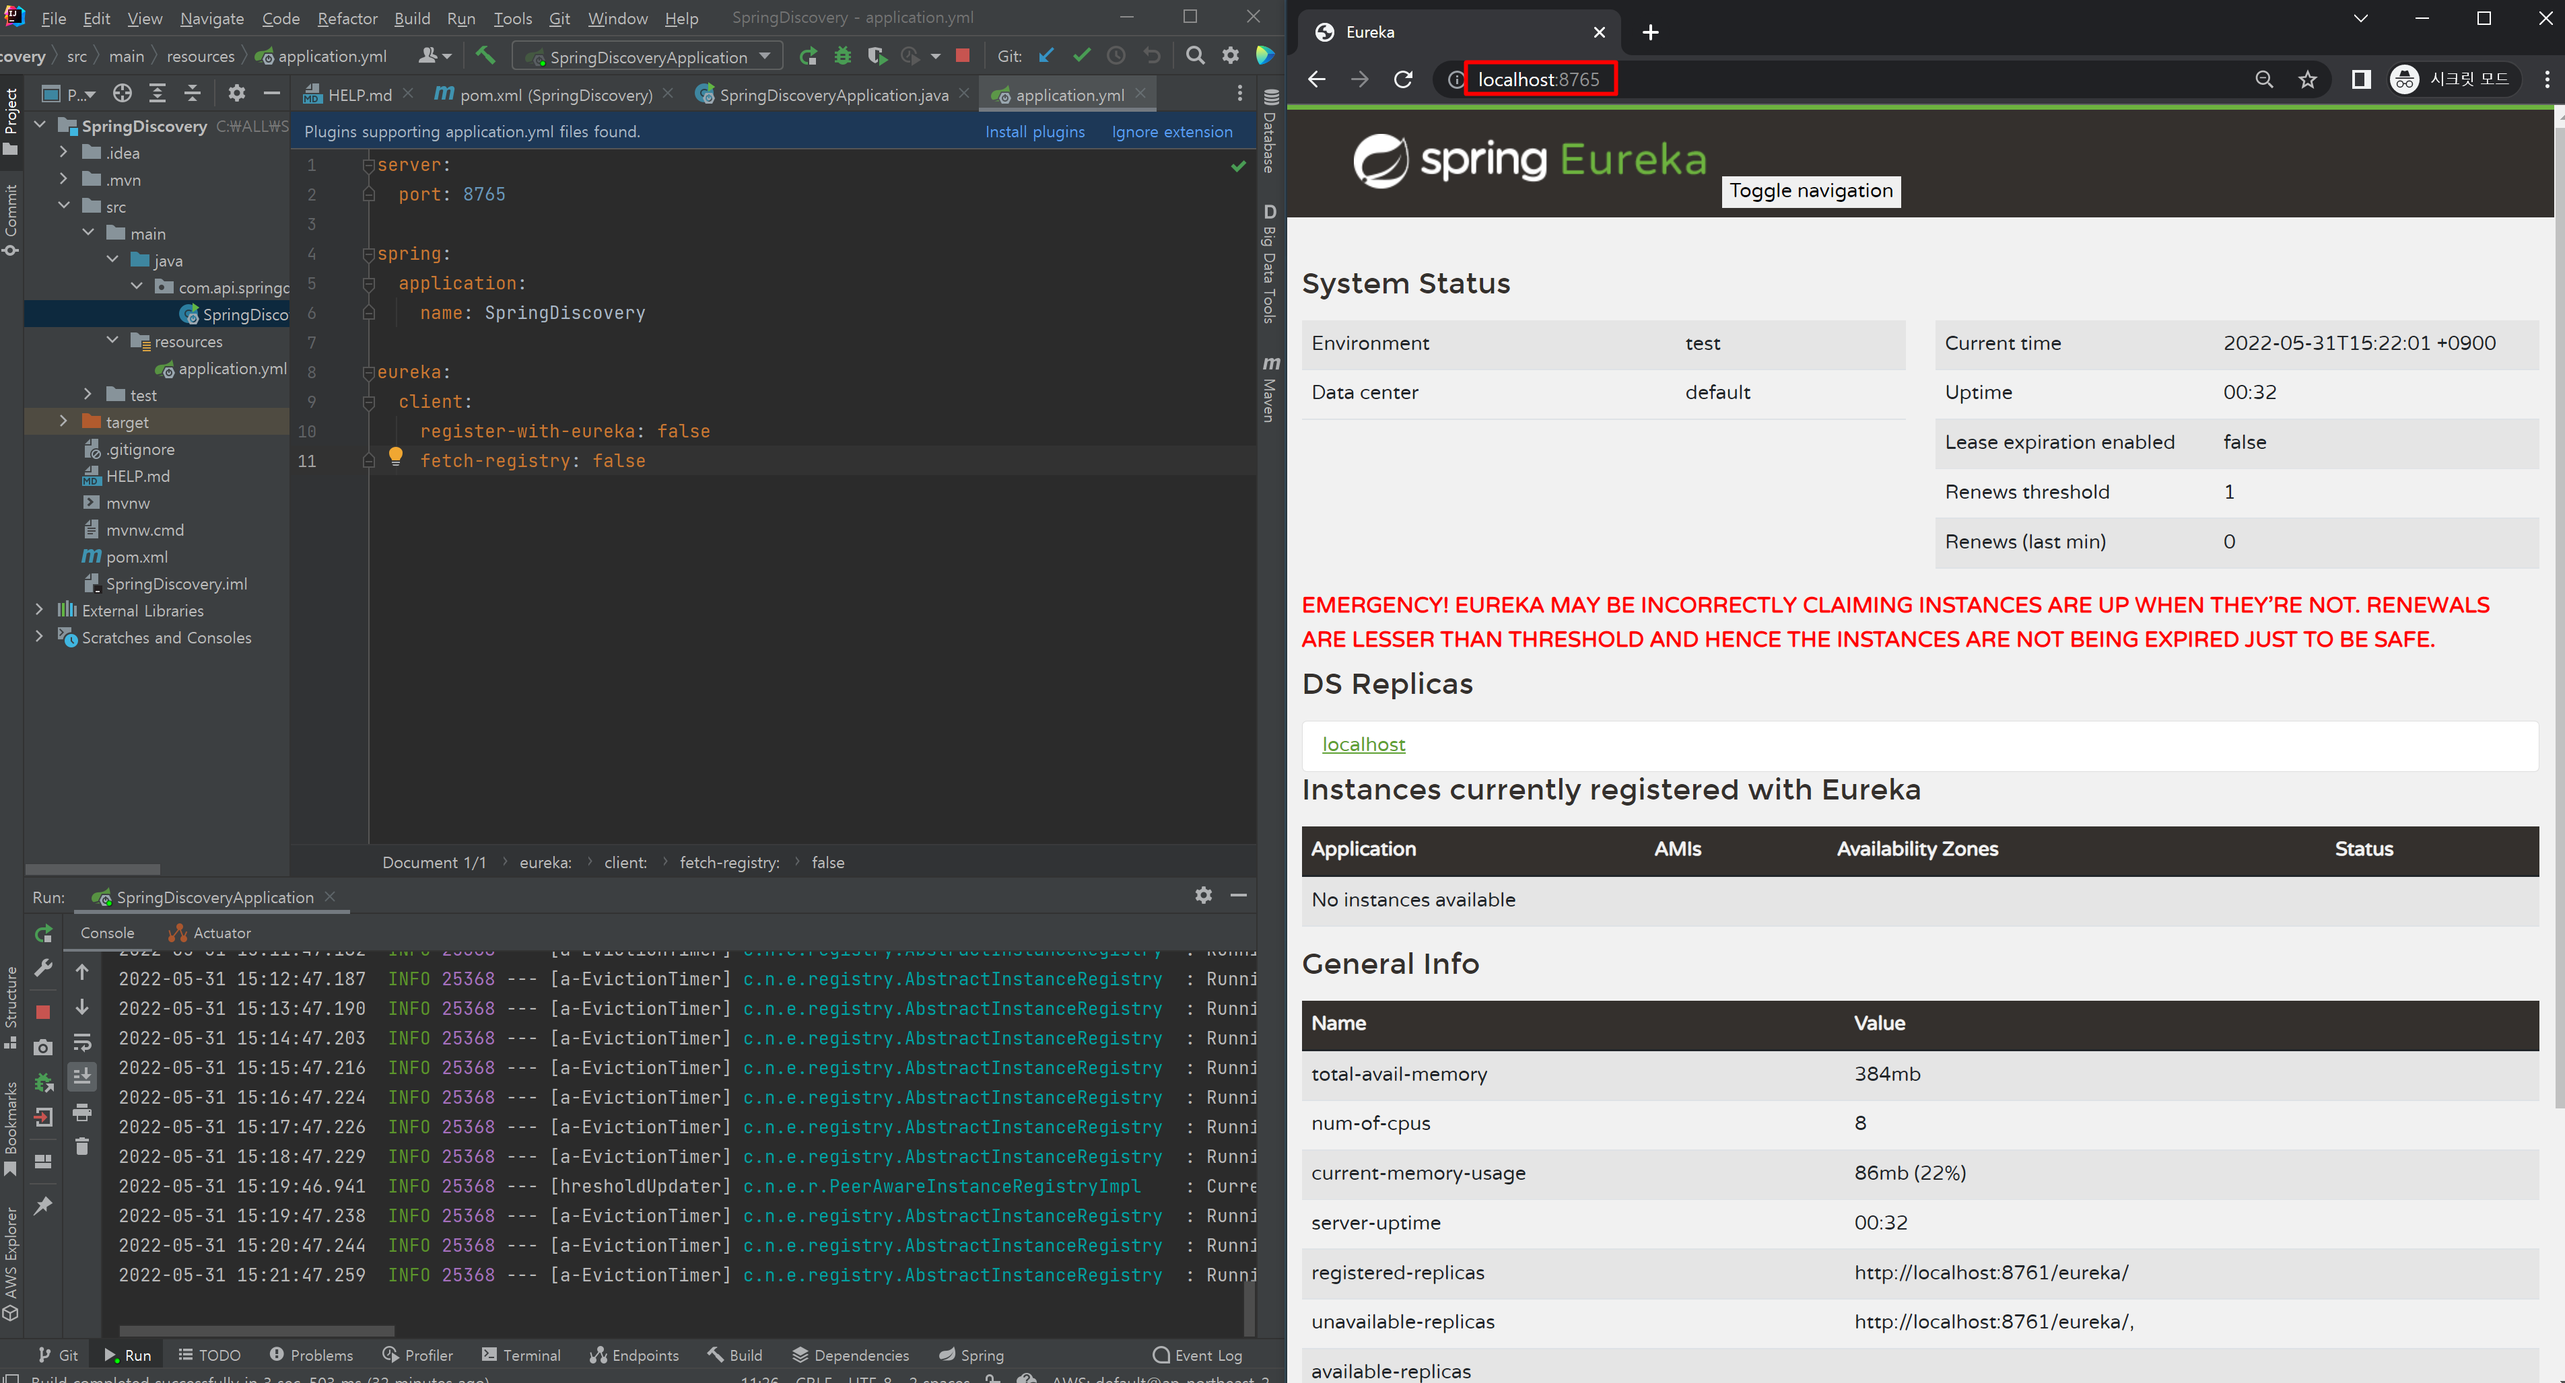
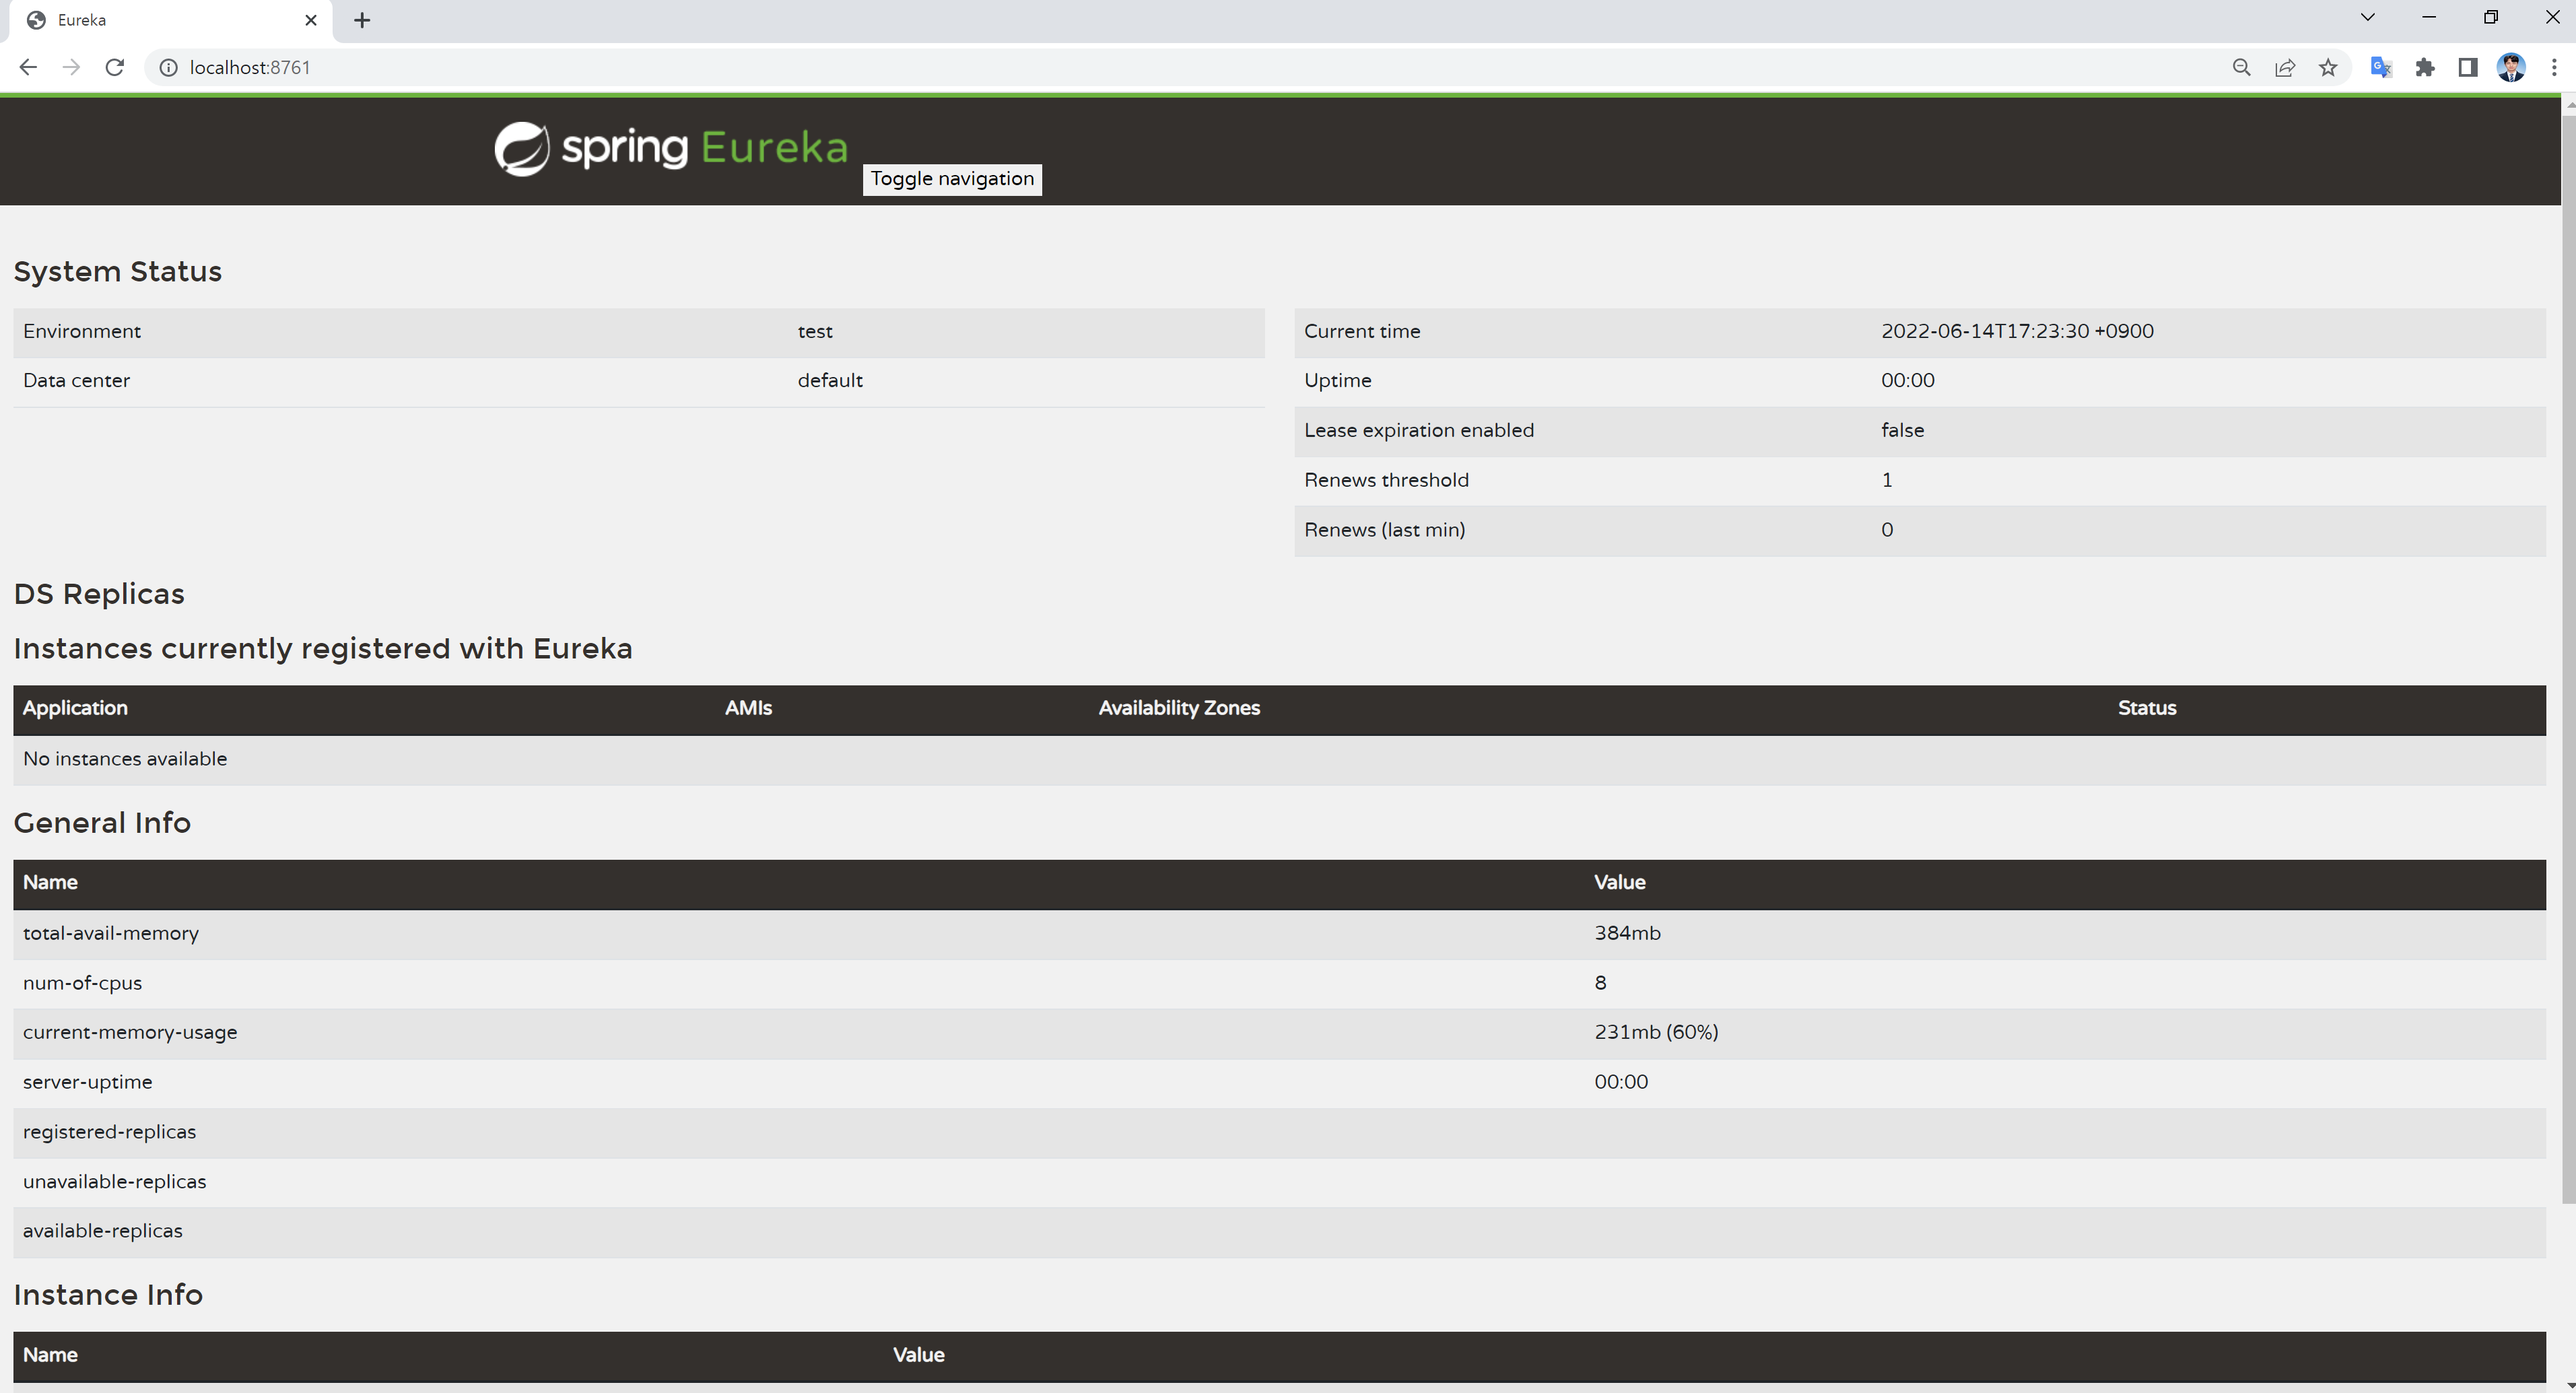
[SpringCloudMSA] feature: Eureka의 Service Discovery에 대한 기능 실습 및 정리

diff --git a/SpringCloudMSA/Eureka를 사용한 간단한 Service Discovery 구현.md b/SpringCloudMSA/Eureka를 사용한 간단한 Service Discovery 구현.md
@@ -1,13 +1,20 @@
+### Eureka
+
+* Neflix에서 제공한 MSA를 위한 클라우드 오픈 소스
+
+##### Eureka 탄생 배경
+
+* MSA에서는 Service의 IP와 Port가 일정하지 않고 지속적을 변화한다. 따라서, Client에 Service의 정보를 수동으로 입력하는 것은 한계가 있어 Service Discovery의 역할이 필요해짐.
+
 ##### Service Discovery 
 
-* MSA와 같은 분산 환경은 서비스 간의 원격 호출로 구성이 된다. 원격 서비스 호출은 IP 주소와 포트를 이용하는 방식이 되는다. 
+* MSA와 같은 분산 환경은 서비스 간의 원격 호출로 구성이 된다. 원격 서비스 호출은 IP 주소와 포트를 이용하는 방식. 
 * 클라우드 환경이 되면서 서비스가 오토 스케일링 등에 의해서 동적으로 생성되거나 컨테이너 기반의 배포로 인해서, 서비스의 IP가 동적으로 변경되는 일이 잦아졌다. 
-* 그래서 서비스 클라이언트가 서비스를 호출할때 서비스의 위치 (즉 IP주소와 포트)를 알아낼 수 있는 기능이 필요한데, 이것을 바로 서비스 디스커버리 (Service discovery)라고 한다.
+* 그래서 서비스 클라이언트가 서비스를 호출할 때 서비스의 위치 (즉 IP주소와 포트)를 알아낼 수 있는 기능이 필요한데, 이것을 바로 Service discovery 라고 한다.
 
 ---
 
-* 참고 Docs 
-  https://cloud.spring.io/spring-cloud-netflix/multi/multi_spring-cloud-eureka-server.html
+### Service Discovery: Eureka Server
 
 ##### SpringDiscovery 프로젝트 생성
 
@@ -23,7 +30,7 @@
   import org.springframework.cloud.netflix.eureka.server.EnableEurekaServer;
   
   @SpringBootApplication
-  @EnableEurekaServer // 어노테이션 추가
+  @EnableEurekaServer // 유레카 서버 활성화
   public class SpringDiscoveryApplication {
   
       public static void main(String[] args) {
@@ -33,7 +40,7 @@
   }
   ```
 
-* application.yml
+* `application.yml`
 
   ```yaml
   server:
@@ -44,20 +51,43 @@
       name: SpringDiscovery
   
   eureka:
+    instance:
+      hostname: localhost
     client:
       register-with-eureka: false
       fetch-registry: false
+      serviceUrl:
+        defaultZone: http://${eureka.instance.hostname}:${server.port}/eureka/
   ```
 
-* Eureka 접속
+  * `spring.application.name`: MSA에서 이 서비스를 식별하는 id
+
+  * `eureka.client.register-with-eureka`: 기본적으로 설정해주지 않는 경우 Eureka Server 자체를 registry에 등록하려 하기 때문에 false로 설정
+
+  * `eureka.client.fetch-registry`: registry에 있는 정보를 가져올지 여부, Eureka Server는 사용하지 않으므로 false로 설정
+
+* `localhost:8761` 
+
+  * 애플리케이션 실행 후 해당 URL로 대시보드 확인
 
   ![3](img/3.png)
 
+* `localhost:8761/eureka/apps`
+
+  * Eureka 서버에 등록된 MSA 목록을 조회할 수 있다.
+
+  ![8](img/8.png)
+
 ---
+
+### Service Discovery: Eureka Client
+
+* Eureka Client는 Server와 통신하여 자신을 등록하고 서비스 정보를 보낸다.
+* 서버로부터 데이터를 가져와 캐싱하고 주기적으로 변경 사항을 확인한다.
 
 ##### SpringDiscoveryService 프로젝트 생성
 
-* 의존성 추가하여 프로젝트 생성
+* Spring Cloud Discovery - Eureka Discovery Client 의존성 추가
 
   ![2](img/2.png)
 
@@ -69,7 +99,7 @@
   import org.springframework.cloud.client.discovery.EnableDiscoveryClient;
   
   @SpringBootApplication
-  @EnableDiscoveryClient
+  @EnableDiscoveryClient // netflix의 @EnableEurekaClient 또한 사용 가능하다.
   public class SpringDiscoveryServiceApplication {
   
       public static void main(String[] args) {
@@ -94,8 +124,10 @@
       register-with-eureka: true
       fetch-registry: true
       service-url:
-        defaultZone: http://127.0.0.1.:8761/eureka
+        defaultZone: http://127.0.0.1:8761/eureka
   ```
+
+  * `eureka.client.service-url.defaultZone`: 클라이언트와 통신할 디스커버리 서버 주소를 설정한다.
 
 * Eureka 서비스 목록 확인
 
@@ -103,10 +135,8 @@
   // 아래와 같은 로그가 찍힘
   INFO 20780 --- [nio-8761-exec-8] c.n.e.registry.AbstractInstanceRegistry  : Registered instance SPRINGDISCOVERYSERVICE/yeongyeon-kim.hwk.net:SpringDiscoveryService:9001 with status UP (replication=false)
   INFO 20780 --- [nio-8761-exec-6] c.n.e.registry.AbstractInstanceRegistry  : Registered instance SPRINGDISCOVERYSERVICE/yeongyeon-kim.hwk.net:SpringDiscoveryService:9001 with status UP (replication=true)
-  INFO 20780 --- [nio-8761-exec-3] c.n.e.registry.AbstractInstanceRegistry  : Registered instance SPRINGDISCOVERYSERVICE/yeongyeon-kim.hwk.net:SpringDiscoveryService:9002 with status UP (replication=false)
-  INFO 20780 --- [nio-8761-exec-4] c.n.e.registry.AbstractInstanceRegistry  : Registered instance SPRINGDISCOVERYSERVICE/yeongyeon-kim.hwk.net:SpringDiscoveryService:9002 with status UP (replication=true)
   ```
-
+  
   ![4](img/4.png)
 
 * 서비스 추가 등록 (방법 1 - Edit Configuration)
@@ -115,9 +145,9 @@
 
 * 서비스 추가 등록 (방법 2 - terminal command)
 
-  Maven 패키징 후
+  1. Maven 패키징 후
 
-  `java -jar -Dserver.port=9003 ./target/SpringDiscoveryService-0.0.1-SNAPSHOT.jar`
+  2. `java -jar -Dserver.port=9003 ./target/SpringDiscoveryService-0.0.1-SNAPSHOT.jar`
 
 * Eureka 서비스 목록에 추가된 것 확인
 
@@ -144,15 +174,16 @@
         defaultZone: http://127.0.0.1:8761/eureka
   ```
 
+  * `port: 0` 설정
+
 * 랜덤 포트로 서비스 띄워진 것 확인
 
   ![7](img/7.png)
 
-* 
+---
 
+참고 Docs 
 
-
-
-
-
+* https://cloud.spring.io/spring-cloud-netflix/multi/multi__service_discovery_eureka_clients.html
+* https://cloud.spring.io/spring-cloud-netflix/multi/multi_spring-cloud-eureka-server.html
 

diff --git a/Backend/[Interview].md b/Backend/[Interview].md
@@ -1,0 +1,50 @@
+#### 브라우저 동작 방법
+
+- 주소창에 url을 입력하고 Enter를 누르면, **서버에 요청이 전송**됨
+- 해당 페이지에 존재하는 여러 자원들(text, image 등등)이 보내짐
+- 이제 브라우저는 해당 자원이 담긴 html과 스타일이 담긴 css를 W3C 명세에 따라 해석할 것임
+- 이 역할을 하는 것이 **'렌더링 엔진'**
+- 렌더링 엔진은 우선 html 파싱 과정을 시작함. html 파서가 문서에 존재하는 어휘와 구문을 분석하면서 DOM 트리를 구축
+- 다음엔 css 파싱 과정 시작. css 파서가 모든 css 정보를 스타일 구조체로 생성
+- 이 2가지를 연결시켜 **렌더 트리**를 만듬. 렌더 트리를 통해 문서가 **시각적 요소를 포함한 형태로 구성**된 상태
+- 화면에 배치를 시작하고, UI 백엔드가 노드를 돌며 형상을 그림
+- 이때 빠른 브라우저 화면 표시를 위해 '배치와 그리는 과정'은 페이지 정보를 모두 받고 한꺼번에 진행되지 않음. 자원을 전송받으면, **기다리는 동시에 일부분 먼저 진행하고 화면에 표시**함
+
+#### 렌더링 동작 과정
+
+![img](https://d2.naver.com/content/images/2015/06/helloworld-59361-2.png)
+
+```text
+먼저 html 문서를 파싱한다.
+
+그리고 콘텐츠 트리 내부에서 태그를 모두 DOM 노드로 변환한다.
+
+그 다음 외부 css 파일과 함께 포함된 스타일 요소를 파싱한다.
+
+이 스타일 정보와 html 표시 규칙은 
+렌더 트리라고 부르는 또 다른 트리를 생성한다.
+
+이렇게 생성된 렌더 트리는 정해진 순서대로 화면에 표시되는데, 
+생성 과정이 끝났을 때 배치가 진행되면서 
+노드가 화면의 정확한 위치에 표시되는 것을 의미한다.
+
+이후에 UI 백엔드에서 렌더 트리의 각 노드를 가로지으며 
+형상을 만드는 그리기 과정이 진행된다.
+
+이러한 과정이 점진적으로 진행되며, 렌더링 엔진은 좀더 빠르게 
+사용자에게 제공하기 위해 모든 html을 파싱할 때까지 기다리지 않고 
+배치와 그리기 과정을 시작한다. (마치 비동기처럼..?)
+
+전송을 받고 기다리는 동시에 받은 내용을 먼저 화면에 보여준다
+(우리가 웹페이지에 접속할 때 한꺼번에 뜨지 않고 점점 화면에 나오는 것이 이 때문!!!)
+```
+
+#### DOM이란?
+
+Document Object Model(문서 객체 모델)
+
+웹페이지 소스를 까보면 `<html>, <body>`와 같은 태그들이 존재한다. 이를 Javascript가 활용할 수 있는 객체로 만들면 `문서 객체`가 된다.
+
+모델은 말 그대로, 모듈화로 만들었다거나 객체를 인식한다라고 해석하면 된다.
+
+즉, **DOM은 웹 브라우저가 html 페이지를 인식하는 방식**을 말한다. (트리구조)

diff --git a/Backend/[Project] Embedded Redis 설정/[Project] 정리 예정.md b/Backend/[Project] Embedded Redis 설정/[Project] 정리 예정.md
@@ -1,6 +1,19 @@
 http://tech.pick-git.com/embedded-redis-server/
 
-임베디드 레디스 메모리 설정 이유
+https://jojoldu.tistory.com/297
 
-maxmemory를 설정해 주지 않고 사용하면, embedded redis가 maxheap사이즈를 과도하게 차지하는 것을 확인
-TC 수행시 많은 용량이 불필요하다고 판단하여 고정된 설정값을 적용
+##### 임베디드 레디스 메모리 설정 이유
+
+* maxmemory를 설정해 주지 않고 사용하면, embedded redis가 maxheap사이즈를 과도하게 차지하는 것을 확인
+  TC 수행시 많은 용량이 불필요하다고 판단하여 고정된 설정값을 적용
+
+---
+
+##### 기술 스택
+
+* lettuce 
+  * Redis Java Client
+  * netty를 기반으로 하며 연결 인스턴스(StatefulRedisConnection)는 여러 스레드에서 공유할 수 있다. 따라서 다중 스레드 응용 프로그램은 Lettuce와 상호 작용하는 동시 스레드 수에 관계없이 단일 연결을 사용할 수 있다.
+* Jedis
+  * Jedis는 애플리케이션이 여러 스레드에서 단일 Jedis 인스턴스를 공유하려는 경우 **스레드로부터 안전하지 않은** 간단한 Redis 클라이언트입니다. 다중 스레드 환경에서 Jedis를 사용하는 접근 방식은 연결 풀링을 사용하는 것입니다. Jedis를 사용하는 각 동시 스레드는 Jedis 상호 작용 기간 동안 자체 Jedis 인스턴스를 가져옵니다. 연결 풀링은 Redis 연결 수를 증가시키는 Jedis 인스턴스당 물리적 연결 비용으로 발생합니다.
+* 

diff --git a/Backend/[Project] S3 pre-signed URL/[Project] S3 pre-signed URL.md b/Backend/[Project] S3 pre-signed URL/[Project] S3 pre-signed URL.md
@@ -58,6 +58,12 @@ private String bucket;
 @Value("${presignedURL.region}")
 private String region;
     
+@Value("${presigned.accesskey}")
+private String accesskey;
+
+@Value("${presigned.secretkey}")
+private String secretkey;
+
 public Object getPresignedUrl(HttpServletRequest request, LoginAccountDto loginAccountDto) {
 	Date date = new Date();
 	date.setTime(date.getTime() + PRESIGNED_URL_EXPIRATION_TIME);
@@ -111,7 +117,7 @@ private AmazonS3 amazonS3Client(String region) {
 @Value("${proxy.host}")
 private String proxyHost;
 
-@Value("${proxy.port:0}")
+@Value("${proxy.port}")
 private Integer proxyPort;
     
 ClientConfiguration clientConfiguration = new ClientConfiguration();

diff --git a/Backend/Spring Boot/정리.md b/Backend/Spring Boot/정리.md
@@ -289,3 +289,17 @@ public abstract class BaseTimeEntity {
 ```
 
 * 위와 같이 작성한 BaseTimeEntity 클래스를 Entity 클래스에서 상속(extends)한다.
+
+---
+
+##### @import
+
+* @Configuration으로 설정한 설정 파일을 두 개 이상 사용하는 경우 사용
+
+```java
+@Configuration
+@Import({RedisSubscribeListener.class})
+public class RedisConfiguration {
+}
+```
+
